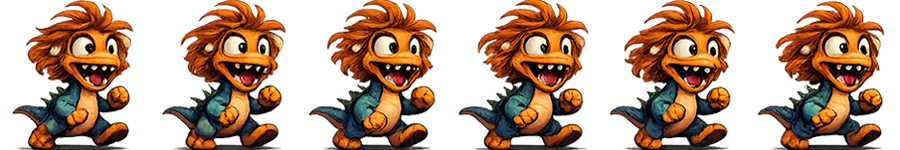
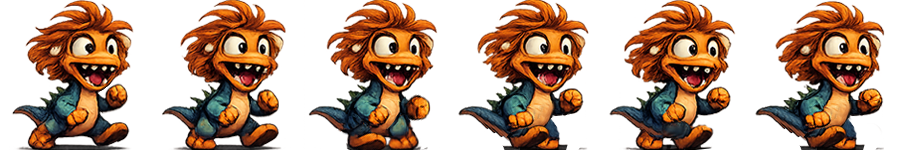
Implement hitbox functionality for player and enemy collision detection

diff --git a/BirchEngine/Src/GameObject.cpp b/BirchEngine/Src/GameObject.cpp
@@ -17,6 +17,7 @@ GameObject::GameObject(const char* texturesheet, SDL_Renderer* ren, int x, int y
 
 	jumpVel  = 0.0f;
 	onGround = true;
+	canDoubleJump = false;
 	groundY  = 0;
 	facingLeft = false;
 }
@@ -60,6 +61,7 @@ void GameObject::Update()
 			{
 				jumpVel  = 0.0f;
 				onGround = true;
+				canDoubleJump = false;
 			}
 		}
 	}
@@ -113,8 +115,14 @@ void GameObject::Jump()
 {
 	if (onGround)
 	{
-		jumpVel  = -13.0f;
-		onGround = false;
+		jumpVel       = -13.0f;
+		onGround      = false;
+		canDoubleJump = true;
+	}
+	else if (canDoubleJump)
+	{
+		jumpVel       = -13.0f;
+		canDoubleJump = false;
 	}
 }
 
@@ -127,6 +135,17 @@ void GameObject::SetPosition(int x, int y)
 SDL_Rect GameObject::GetBounds() const
 {
 	return destRect;
+}
+
+SDL_Rect GameObject::GetHitbox() const
+{
+	// 30px inset horizontally, 20px top, 10px bottom — tight body box
+	SDL_Rect hb;
+	hb.x = destRect.x + 30;
+	hb.y = destRect.y + 20;
+	hb.w = destRect.w - 60;
+	hb.h = destRect.h - 30;
+	return hb;
 }
 
 void GameObject::Render()

diff --git a/BirchEngine/Src/Game.cpp b/BirchEngine/Src/Game.cpp
@@ -129,8 +129,8 @@ void Game::update()
 
 	if (player && enemy)
 	{
-		SDL_Rect playerRect = player->GetBounds();
-		SDL_Rect enemyRect  = enemy->GetBounds();
+		SDL_Rect playerRect = player->GetHitbox();
+		SDL_Rect enemyRect  = enemy->GetHitbox();
 		if (SDL_HasIntersection(&playerRect, &enemyRect) && playerFlickerFrames == 0)
 		{
 			playerFlickerFrames = 60;

diff --git a/BirchEngine/Src/GameObject.h b/BirchEngine/Src/GameObject.h
@@ -15,6 +15,7 @@ public:
 	void Jump();
 	void SetPosition(int x, int y);
 	SDL_Rect GetBounds() const;
+	SDL_Rect GetHitbox() const;
 
 private:
 
@@ -25,6 +26,7 @@ private:
 
 	float jumpVel;
 	bool  onGround;
+	bool  canDoubleJump;
 	int   groundY;
 	bool  facingLeft;
 
